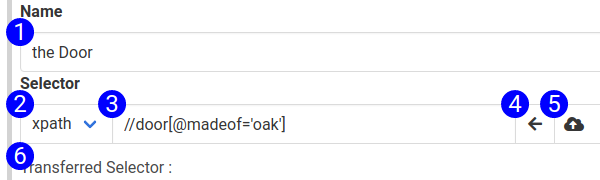
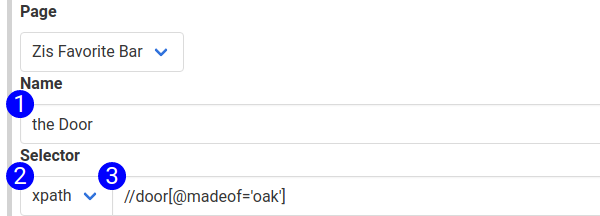
Remove references to transfer/test selector

Changed region(s): [[0.0, 0.0278, 1.0, 1.0]]

diff --git a/docs/element_subform.md b/docs/element_subform.md
@@ -7,9 +7,3 @@ The Element subform is displayed on the step form for any step type that referen
 1. **Name** - A descriptive name of the element. Will be used in the UI, and in automatic naming schemes for the step.
 2. **Strategy** - The strategy used to apply the selector. UserDocs supports CSS and xpath selectors.
 3. **Selector** - The selector that UserDocs will use to locate the element.
-4. **Transfer Selector** - This button will transfer the selector, automatically sent over from the automated browser from the 'Transferred Selector' element (designated by 8) into the selector field.
-5. **Test Selector** - This button will highlight the selector in the automated browser window, to help you test your selector.
-6. **Transferred Selector** - Displays the selector transferred over from the automated browser for review before transferring into the field.
-
-
-> The Transfer Selector and Test Selector features are currently offline, and will be re-enabled in the near future.
